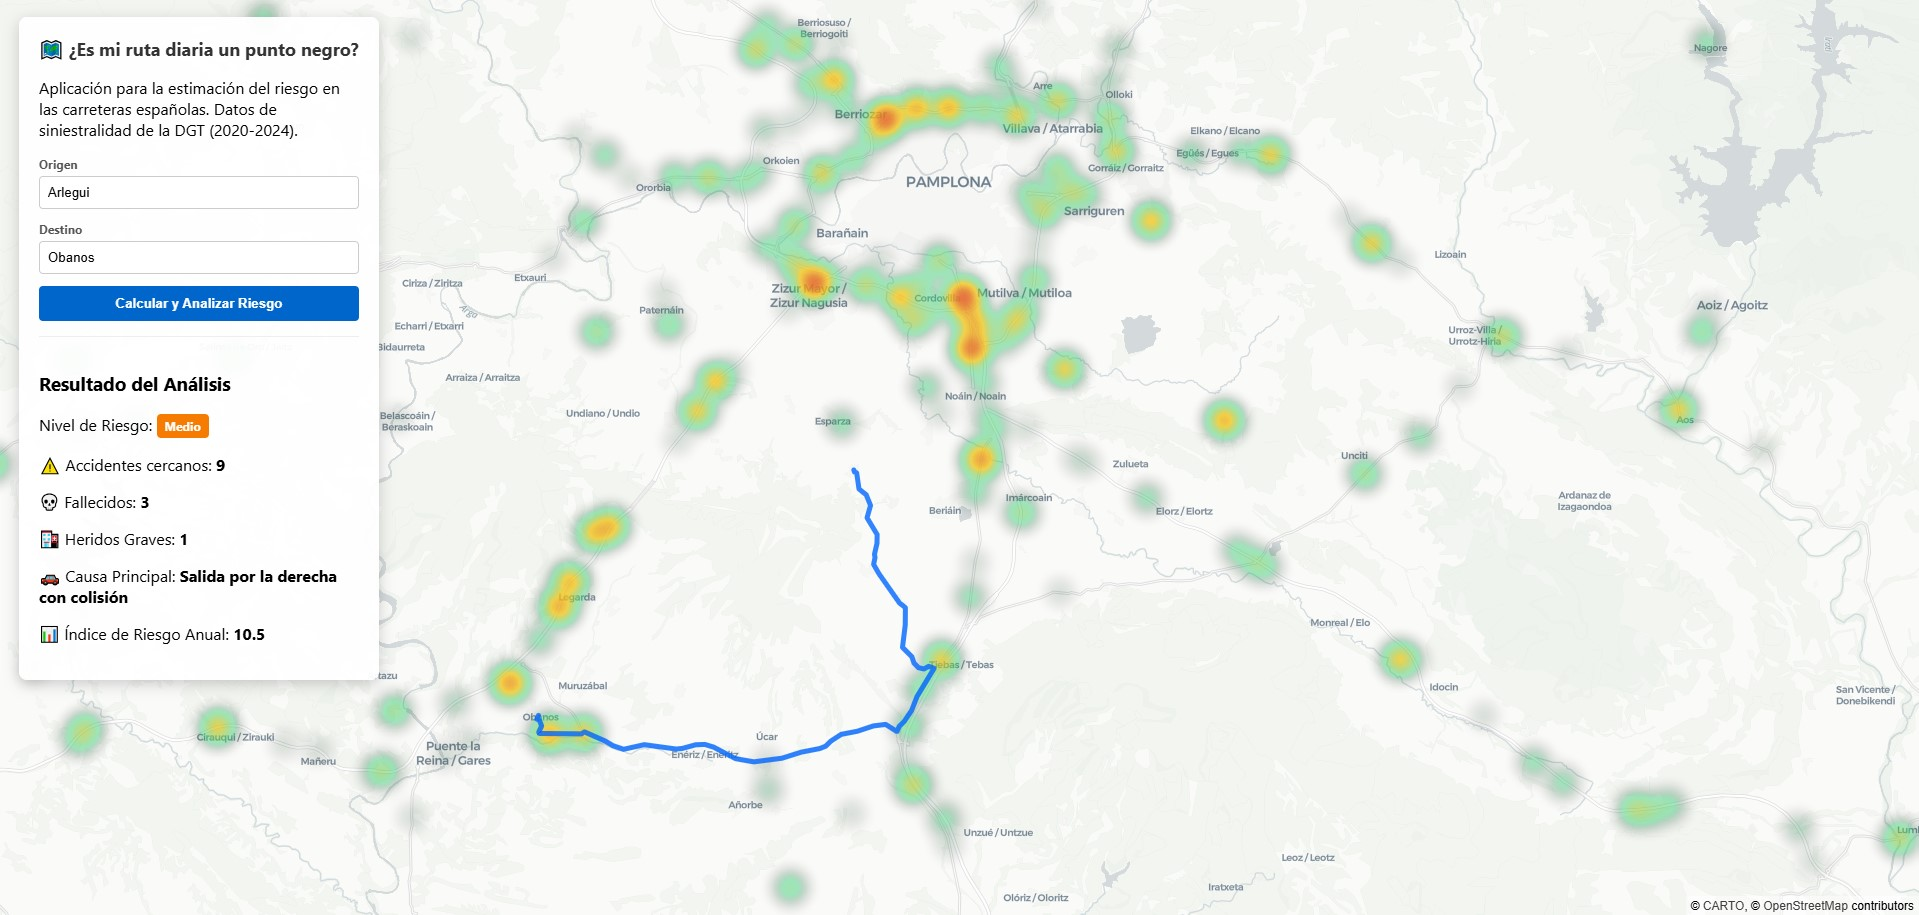
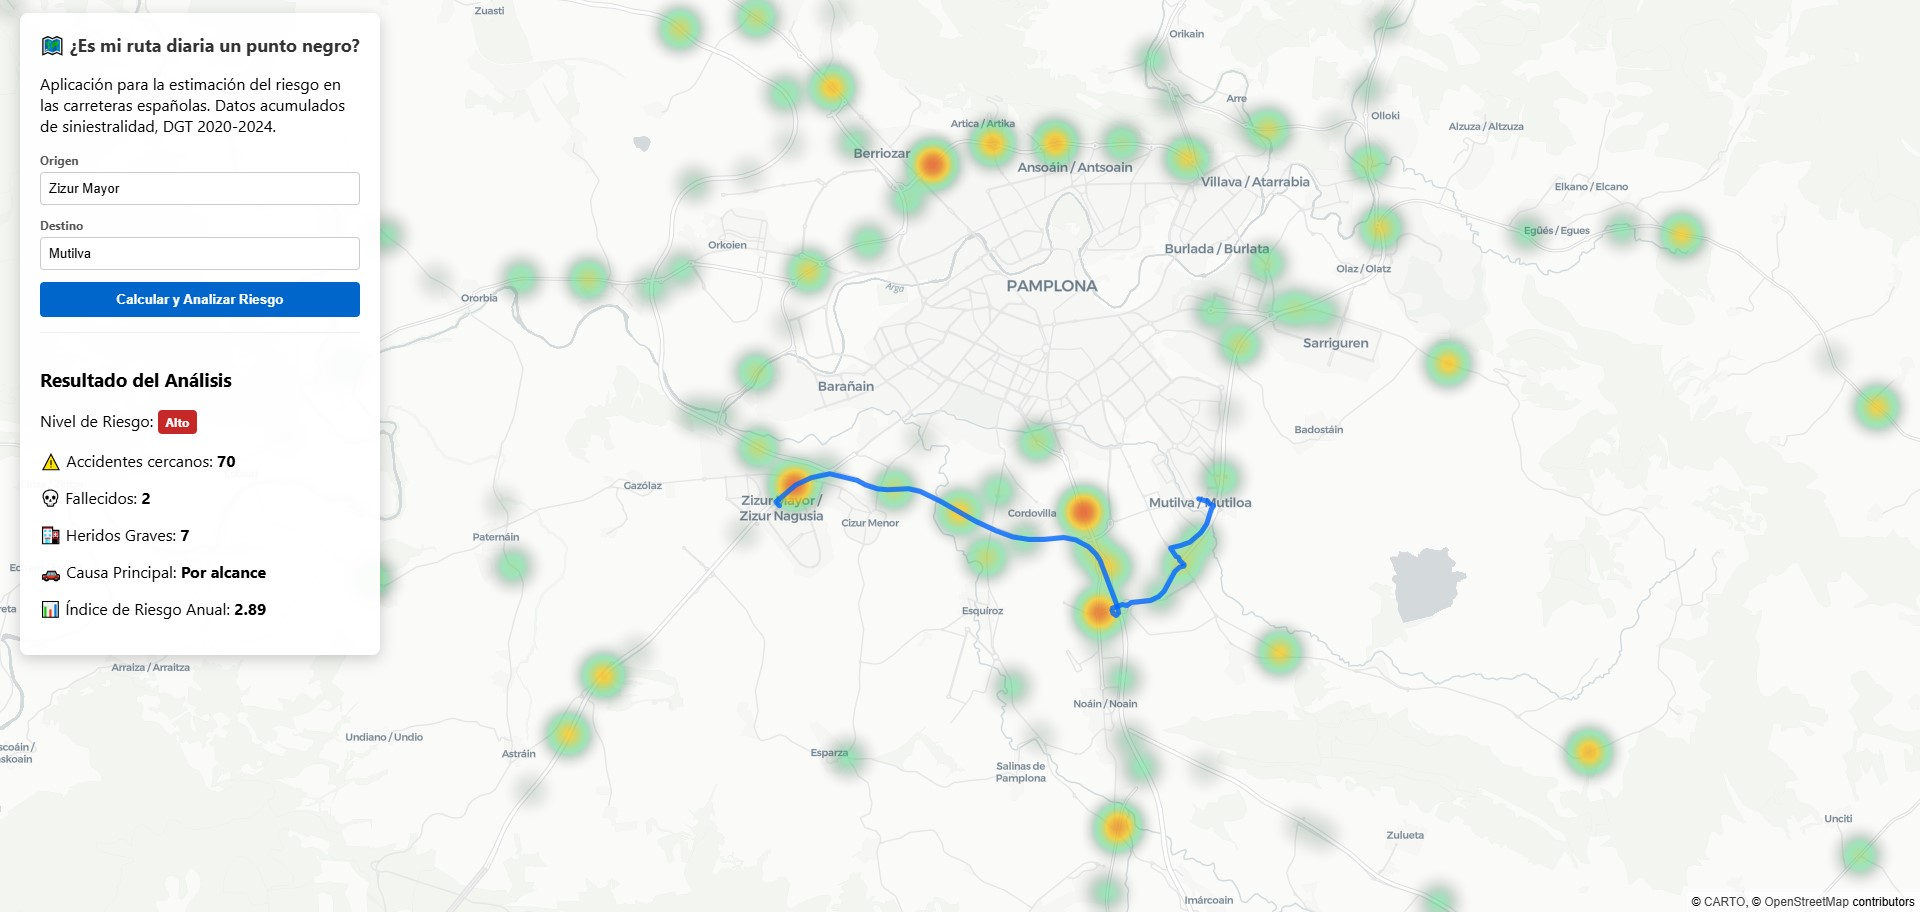
indice riesgo normalizado por km

diff --git a/static/index.html b/static/index.html
@@ -84,7 +84,7 @@
         <p>💀 Fallecidos: <strong id="val-fallecidos">0</strong></p>
         <p>🏥 Heridos Graves: <strong id="val-graves">0</strong></p>
         <p>🚗 Causa Principal: <strong id="val-causa">-</strong></p>
-        <p>📊 Índice de Riesgo Anual: <strong id="val-indice">0</strong></p>
+        <p>📊 Índice de Riesgo: <strong id="val-indice">0</strong></p>
     </div>
 </div>
 
@@ -240,7 +240,7 @@
             document.getElementById('val-fallecidos').innerText = resumen.fallecidos_acumulados || 0;
             document.getElementById('val-graves').innerText = resumen.heridos_graves_acumulados || 0;
             document.getElementById('val-causa').innerText = resumen.causa_principal || 'No especificada';
-            document.getElementById('val-indice').innerText = resumen.indice_riesgo_anual_promedio || 0;
+            document.getElementById('val-indice').innerText = resumen.indice_riesgo_anual_km || 0;
 
             const badge = document.getElementById('badge-riesgo');
             badge.innerText = resumen.nivel_riesgo;

diff --git a/main.py b/main.py
@@ -176,21 +176,23 @@ async def analizar_riesgo_ruta(req: RouteRequest):
 
     conn = await asyncpg.connect(DB_DSN)
     
-    # 1. Totales acumulados e índice de severidad
+    # 1. Totales acumulados, número de años y longitud exacta del trazado en km vía PostGIS
     query_totales = """
+        WITH ruta_geom AS (
+            SELECT ST_GeomFromText($1, 4326) AS geom
+        )
         SELECT 
-            COUNT(*) AS total_accidentes,
-            COALESCE(SUM(fallecidos_30d), 0) AS total_fallecidos,
-            COALESCE(SUM(heridos_graves), 0) AS total_graves,
-            COALESCE(SUM(heridos_leves), 0) AS total_leves,
-            COALESCE(SUM(peso_severidad), 0) AS indice_riesgo_total,
-            COUNT(DISTINCT anio) AS num_anios
-        FROM accidentes
-        WHERE ST_DWithin(
-            geom, 
-            ST_GeomFromText($1, 4326), 
-            0.005
-        );
+            COUNT(a.id) AS total_accidentes,
+            COALESCE(SUM(a.fallecidos_30d), 0) AS total_fallecidos,
+            COALESCE(SUM(a.heridos_graves), 0) AS total_graves,
+            COALESCE(SUM(a.heridos_leves), 0) AS total_leves,
+            COALESCE(SUM(a.peso_severidad), 0) AS indice_riesgo_total,
+            COUNT(DISTINCT a.anio) AS num_anios,
+            -- Cálculo de la distancia real sobre el elipsoide terrestre en kilómetros
+            ST_Length(rg.geom::geography) / 1000.0 AS longitud_km
+        FROM ruta_geom rg
+        LEFT JOIN accidentes a ON ST_DWithin(a.geom, rg.geom, 0.005)
+        GROUP BY rg.geom;
     """
     row = await conn.fetchrow(query_totales, wkt_line)
 
@@ -218,18 +220,20 @@ async def analizar_riesgo_ruta(req: RouteRequest):
     leves = row["total_leves"]
     riesgo_total = float(row["indice_riesgo_total"])
     num_anios = max(row["num_anios"] or 1, 1)
+    longitud_km = max(float(row["longitud_km"] or 0.1), 0.1)
 
-    riesgo_anual = riesgo_total / num_anios
+    # Cálculo normalizado: Densidad de riesgo por año y por kilómetro de carretera
+    riesgo_anual_km = (riesgo_total / num_anios) / longitud_km
 
+    # Umbrales ajustados a la densidad por km (Riesgo Colectivo Relativo)
     nivel_riesgo = "Bajo"
-    if riesgo_anual > 30:
+    if riesgo_anual_km > 2.0:
         nivel_riesgo = "Alto"
-    elif riesgo_anual > 10:
+    elif riesgo_anual_km > 0.5:
         nivel_riesgo = "Medio"
 
     # Traducir el código numérico o devolver el valor tal cual si ya venía formateado
     causa_raw = str(causa_row["tipo_accidente"]).strip() if causa_row else ""
-    # Por si vienen decimales:
     if causa_raw.endswith(".0"):
         causa_raw = causa_raw[:-2]
     elif "." in causa_raw:
@@ -237,17 +241,19 @@ async def analizar_riesgo_ruta(req: RouteRequest):
             causa_raw = str(int(float(causa_raw)))
         except ValueError:
             pass
+
     causa_principal = TIPO_ACCIDENTE_MAP.get(causa_raw, causa_raw if causa_raw else "No especificada")
 
     return {
         "resumen": {
+            "longitud_ruta_km": round(longitud_km, 2),
             "periodo_anos_analizados": num_anios,
             "total_accidentes_acumulados": total_acc,
             "fallecidos_acumulados": fallecidos,
             "heridos_graves_acumulados": graves,
             "heridos_leves_acumulados": leves,
             "causa_principal": causa_principal,
-            "indice_riesgo_anual_promedio": round(riesgo_anual, 2),
+            "indice_riesgo_anual_km": round(riesgo_anual_km, 2),
             "nivel_riesgo": nivel_riesgo
         }
     }
